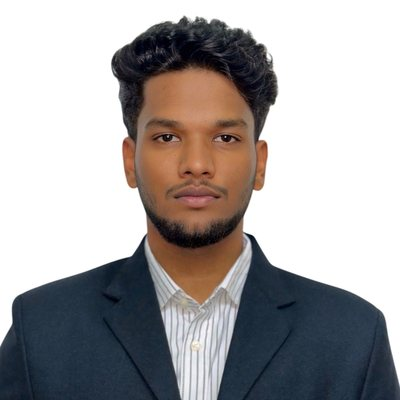
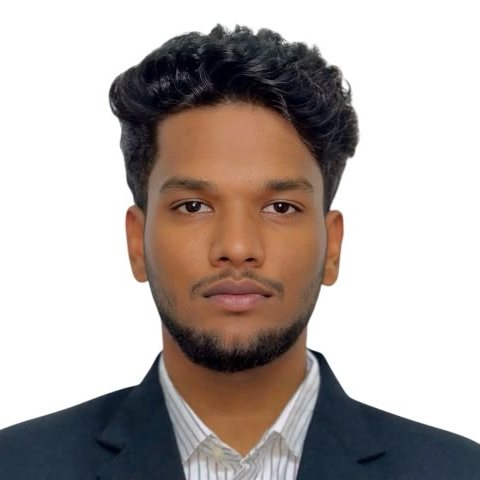
Add files via upload

diff --git a/index.html b/index.html
@@ -1502,7 +1502,7 @@ footer .wrap { padding-block: 22px 30px; display: flex; justify-content: space-b
     var MODE3D=false, T3API=null;
     const cv3=document.getElementById('flow3d'), g3=cv3.getContext('2d'), cvF=document.getElementById('flow3dF'), gF=cvF.getContext('2d');
     const carL=document.createElement('canvas'), gc=carL.getContext('2d');
-    const HOME={yaw:-0.75,pitch:0.3,zoom:1};
+    const HOME={yaw:-1.08,pitch:0.46,zoom:1};
     const view={yaw:HOME.yaw,pitch:HOME.pitch,zoom:HOME.zoom,intro:0};
     const TGT=[2.5,0.42,0], DIST=9.5;
     let W3=0,H3h=0,dpr3=1, field=null, lines=[], parts=[], loopOn=false, t0=0, needField=true, carKey='', ZB=null, ZW=0, ZH=0;
